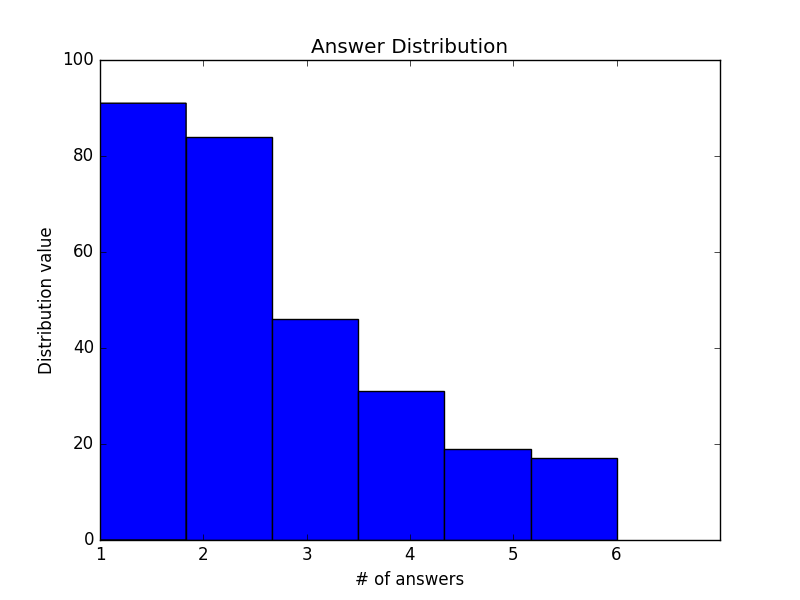
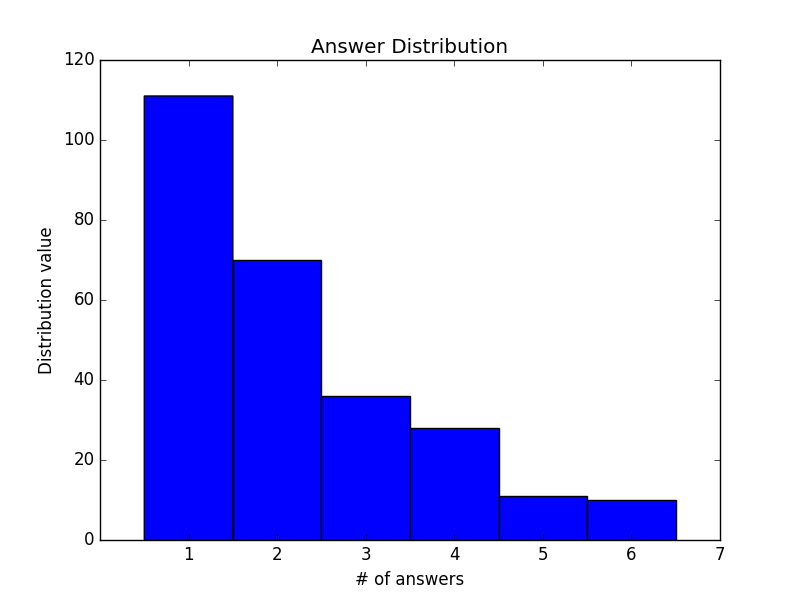
fix histogram

Changed region(s): [[0.0625, 0.15, 0.875, 0.93], [0.0625, 0.09, 0.125, 0.12], [0.5625, 0.9, 0.5938, 0.93]]

diff --git a/statistic_new.py b/statistic_new.py
@@ -5,7 +5,6 @@ from collections import Counter
 import re
 import matplotlib.pyplot as plt
 import fileinput
-from nltk.corpus import stopwords
 
 mydict = {}
 
@@ -39,7 +38,6 @@ def len_of_posts(dataset,path):
     questions_id =''
     count = 0
     i = -1
-    stopword = set(stopwords.words('english'))
     with open(path + 'post_length.txt', 'a+') as dest:
         for lines in data:
             if quest.match(lines):
@@ -64,9 +62,10 @@ def get_statistics(data,path):
     total_quest = 0
     total_ans = 0
     total = 0
+    ans_list = []
     quest = re.compile('^Question-\d')
-    source = fileinput.input(data)
-    for lines in source:
+    data = fileinput.input(data)
+    for lines in data:
         if quest.match(lines):
             line = lines.split(',')
             try:
@@ -79,10 +78,13 @@ def get_statistics(data,path):
                     mydict[line[0].strip('\n')] += 1
                 except KeyError:
                     mydict[line[0].strip('\n')] = 1
+                    ans_list.append(line[0].strip('\n'))
                 total_ans +=1
-    for value in mydict.values():
-        if (value - 1 >= 0):
-            answer_file.append(value)
+    for key in mydict.keys():
+        if key in ans_list:
+            answer_file.append(mydict[key])
+        elif (mydict[key] -1 > 0):
+            answer_file.append(mydict[key]-1)
     lst = Counter(mydict)
     with open(path+'num_of_thread.txt','w+') as source:
         source.write("number of Thread in all of the post : \n")
@@ -105,19 +107,17 @@ def create_histo(data,path):
         else:
             temp_list.append(i)
     df = pandas.DataFrame(temp_list)
-    plt.hist(df[0], bins =upper_limit, range=(1,upper_limit),  align= 'mid', histtype='bar')
-    plt.xticks(range(1, upper_limit+1, 1))
-    # plt.yticks(range(0,100))
+    bins = range(min(df[0]),max(df[0])+2,1)
+    plt.hist(df[0], bins =bins,  align= 'left', histtype='bar')
+    plt.xticks(bins)
     plt.xlabel('# of answers')
     plt.ylabel('Distribution value')
     plt.title('Answer Distribution')
-        # plt.show()
-        # change the save path for other pict
     plt.savefig(path+'histogram.png')
 
 if __name__=="__main__":
-    len_of_posts(api_preprocessed_path,FILE_DEST)
-    # stats_file = get_statistics(api_preprocessed_path,FILE_DEST)
-    # create_histo(stats_file,FILE_DEST)
+    # len_of_posts(api_preprocessed_path,FILE_DEST)
+    stats_file = get_statistics(api_preprocessed_path,FILE_DEST)
+    create_histo(stats_file,FILE_DEST)
 
 
